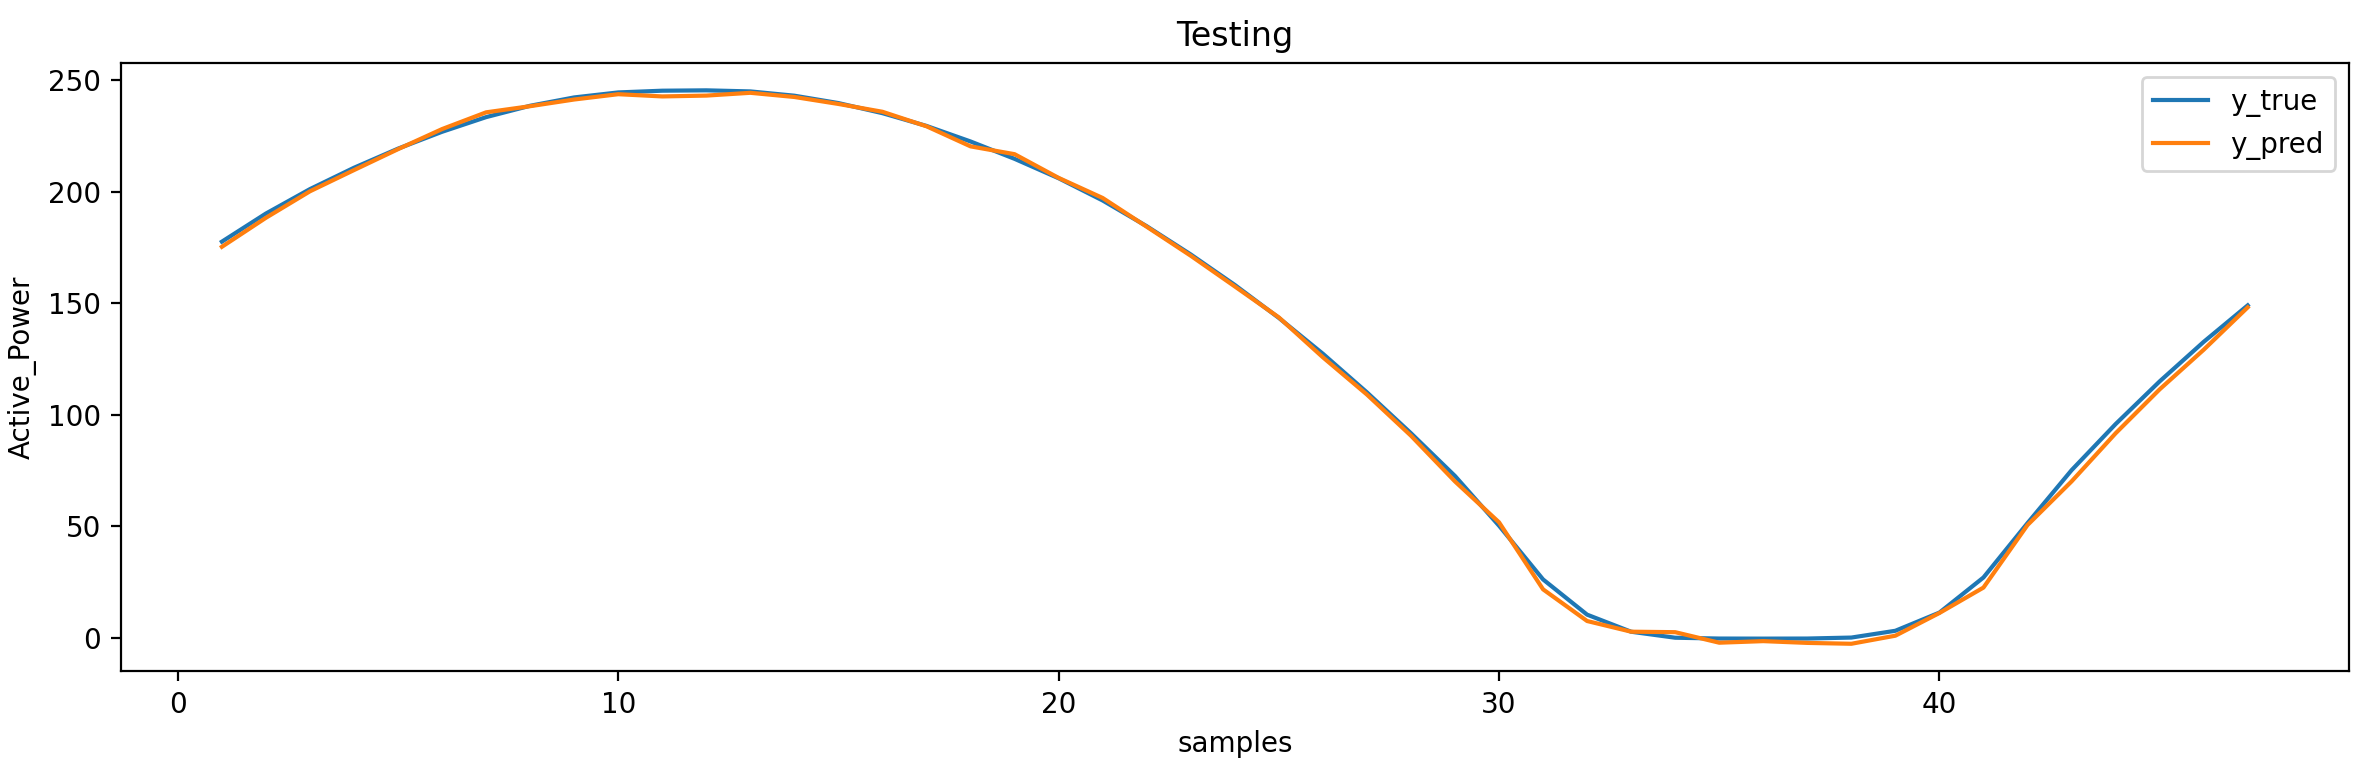
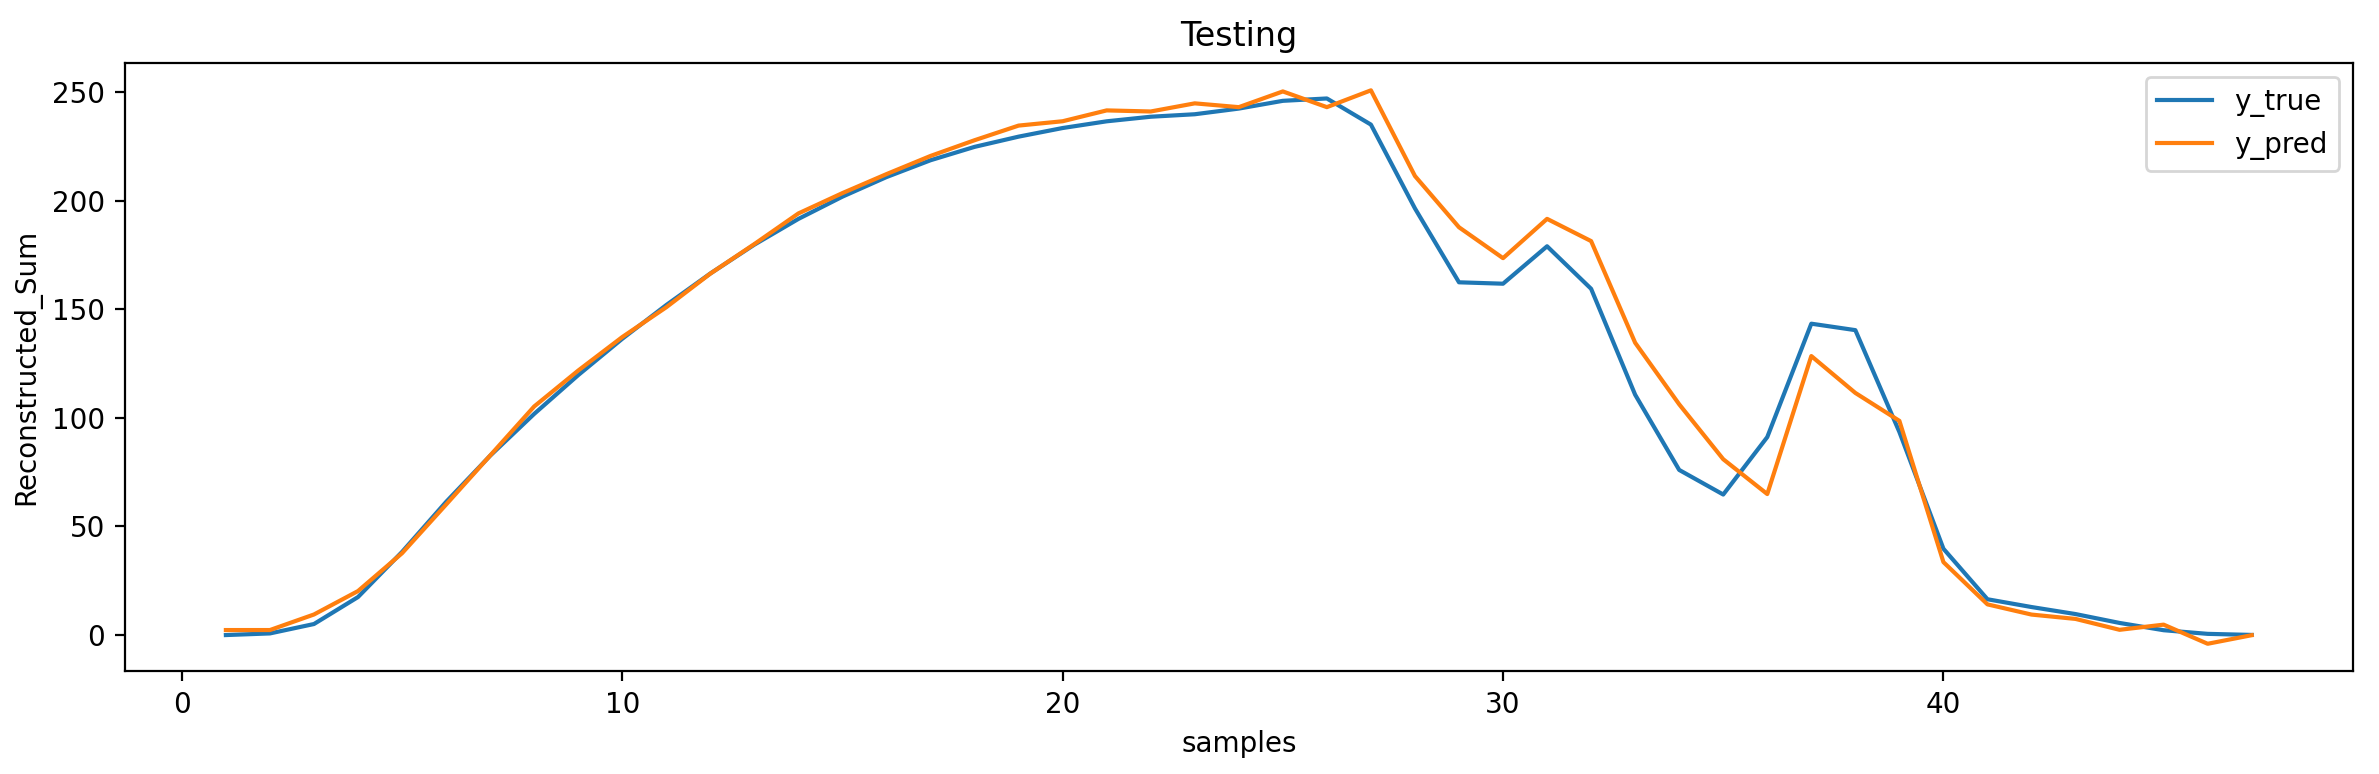
update Readme

diff --git a/Readme.md b/Readme.md
@@ -94,7 +94,7 @@ The proposed model improved the metrics over [2], considering MAE, RMSE and R²:
 | VMD-PA [TimesNet-BiLSTM]                   | 2.9789  | 4.3131  | 0.6255 | Solar station site 8 |
 | STL – VMD – PA [TimesNet-BiLSTM] (purpose) | 0.3234  | 0.4349  | 0.9962 | Solar station site 8 |
 
-![History plot of STL_VMD_PA[TimesNet_BiLSTM] on testing set for DKASC](/outputs/Yulara/plot/STL_VMD_PA_TimesNet_BiLSTM_history.png)
+![History plot of STL_VMD_PA[TimesNet_BiLSTM] on testing set for DKASC](/outputs/Yulara/plots/STL_VMD_PA_TimesNet_BiLSTM_history.png)
 ![History plot of STL_VMD_PA[TimesNet_BiLSTM] on testing set for Solar station site 8](/outputs/Figshare/plots/STL_VMD_PA_TimesNet_BiLSTM_history.png)
 <!-- ![Scatter plot of STL_VMD_PA[TimesNet_BiLSTM] on testing set for DKASC](/outputs/Yulara/plots/STL_VMD_PA_TimesNet_BiLSTM_scatter.png)
 ![Scatter plot of STL_VMD_PA[TimesNet_BiLSTM] on testing set for Solar station site 8](/outputs/Yulara/plots/STL_VMD_PA_TimesNet_BiLSTM_scatter.png) -->
